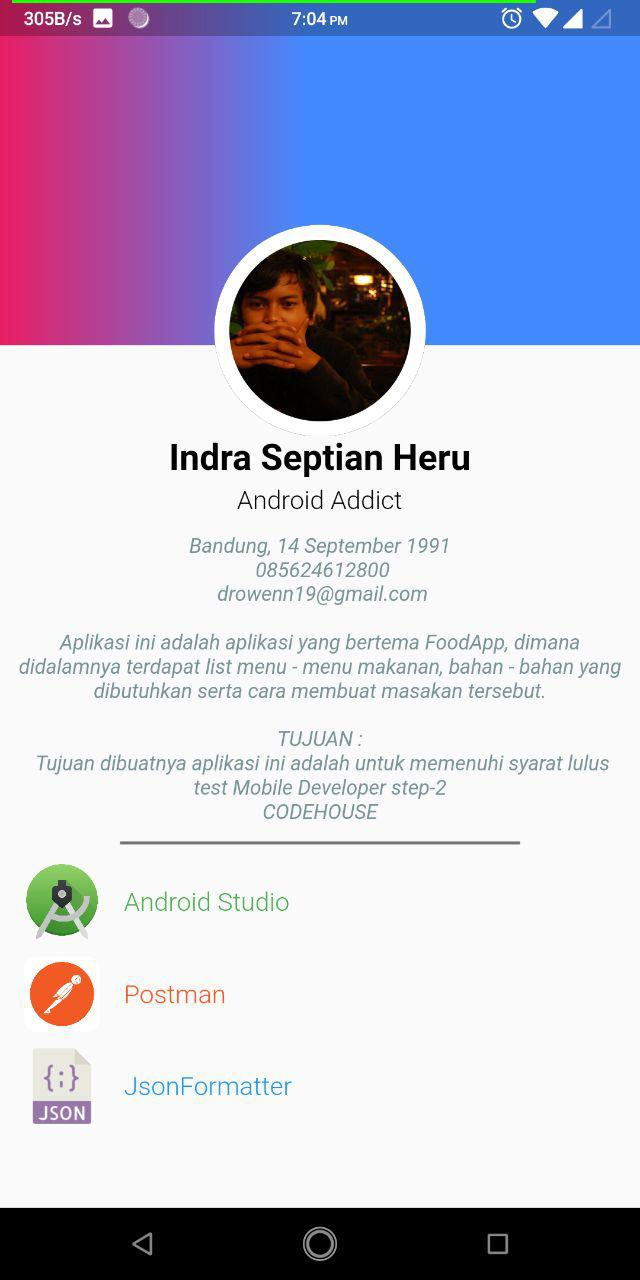
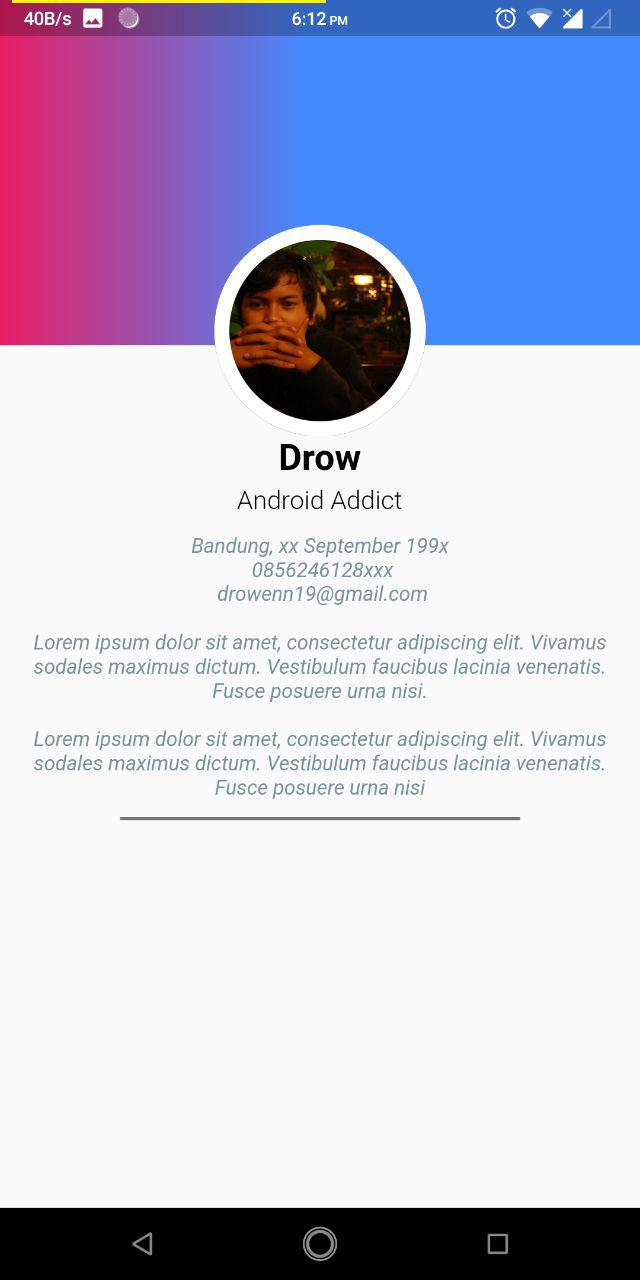
editing description pages

diff --git a/lib/DescriptionPage.dart b/lib/DescriptionPage.dart
@@ -21,8 +21,6 @@ class DescriptionPage extends StatelessWidget {
                   _buildPurpose(context),
                   _buildSeparator(screenSize),
                   SizedBox(height: 10.0),
-                  _buildTools(),
-                  SizedBox(height: 8.0),
                 ],
               ),
             ),
@@ -78,7 +76,7 @@ class DescriptionPage extends StatelessWidget {
     );
 
     return Text(
-      'Indra Septian Heru',
+      'Drow',
       style: _nameTextStyle,
     );
   }
@@ -116,7 +114,7 @@ class DescriptionPage extends StatelessWidget {
       color: Theme.of(context).scaffoldBackgroundColor,
       padding: EdgeInsets.all(8.0),
       child: Text(
-        'Bandung, 14 September 1991\n 085624612800\n drowenn19@gmail.com',
+        'Bandung, xx September 199x\n 0856246128xxx\n drowenn19@gmail.com',
         textAlign: TextAlign.center,
         style: bioTextStyle,
       ),
@@ -137,8 +135,8 @@ class DescriptionPage extends StatelessWidget {
       color: Theme.of(context).scaffoldBackgroundColor,
       padding: EdgeInsets.all(8.0),
       child: Text(
-        'Aplikasi ini adalah aplikasi yang bertema FoodApp, dimana didalamnya '
-            'terdapat list menu - menu makanan, bahan - bahan yang dibutuhkan serta cara membuat masakan tersebut.',
+        'Lorem ipsum dolor sit amet, consectetur adipiscing elit. '
+            'Vivamus sodales maximus dictum. Vestibulum faucibus lacinia venenatis. Fusce posuere urna nisi.',
         textAlign: TextAlign.center,
         style: bioTextStyle,
       ),
@@ -159,8 +157,7 @@ class DescriptionPage extends StatelessWidget {
       color: Theme.of(context).scaffoldBackgroundColor,
       padding: EdgeInsets.all(8.0),
       child: Text(
-        'TUJUAN : \n Tujuan dibuatnya aplikasi ini adalah untuk memenuhi syarat '
-            'lulus test Mobile Developer step-2 \nCODEHOUSE',
+        'Lorem ipsum dolor sit amet, consectetur adipiscing elit. Vivamus sodales maximus dictum. Vestibulum faucibus lacinia venenatis. Fusce posuere urna nisi',
         textAlign: TextAlign.center,
         style: bioTextStyle,
       ),

diff --git a/README.md b/README.md
@@ -15,4 +15,6 @@ HomePage :
  
 DetailPage :
  - Halaman ketiga yang menampilkan list detail dari makanan dan juga menu video tutorial youtube<br/><br/>![](images/detail.jpg)
-
+ 
+DescriptionPage:
+ - Halaman yang menampilkan biodata, deskripsi dan tujuan aplikasi, serta tools yang digunakan<br/><br/>![](images/desc.jpg)
